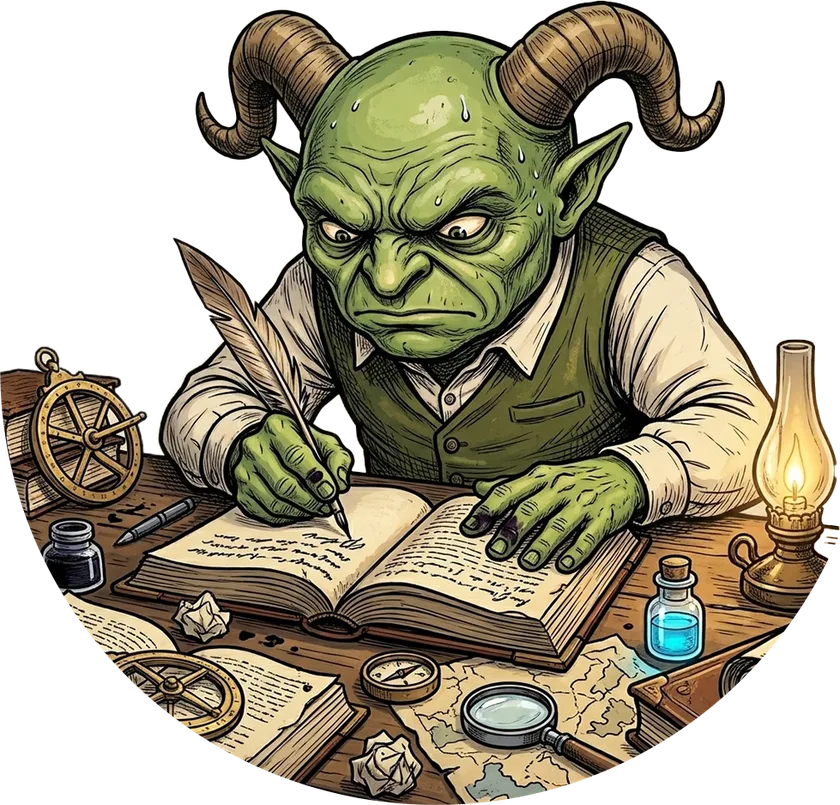
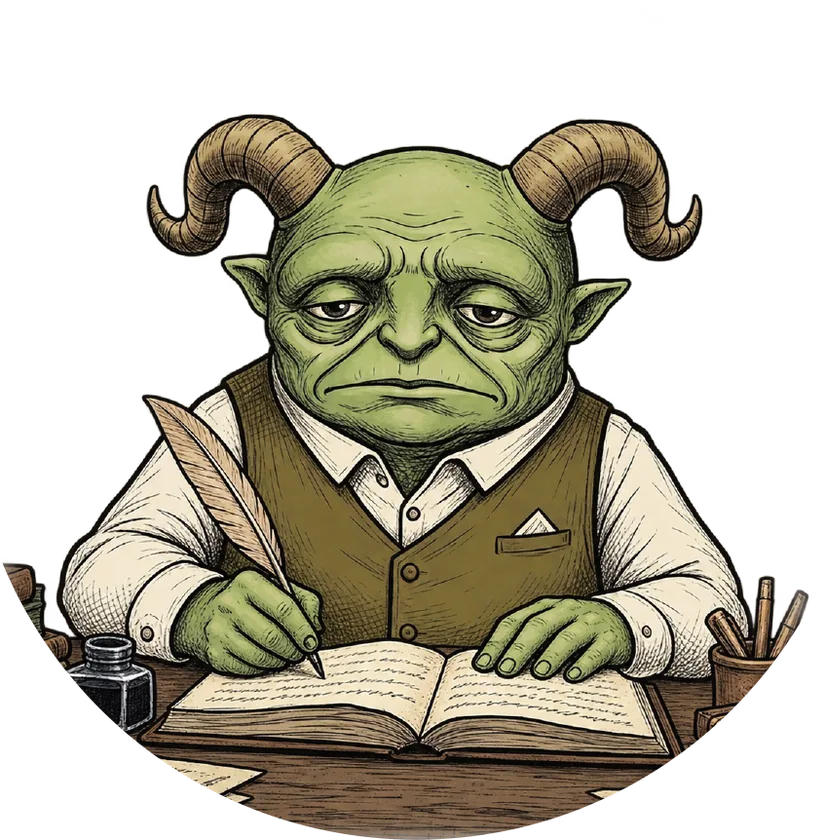
Website #379: the two drawings the card was waiting on
The last commit on this card shipped eight of its ten points and parked two, because
the artwork named in them ("Replace 1.png", "Replace 2.png") was on Trello and not in
the repo. Both files are in now, used exactly as provided.

- D1 Studio / «استودیو دیوان» gets the new drawing. Same subject as the one it replaces,
  drawn frontally and more cleanly: Diwche writing in a ledger with a quill. Its alt text
  is rewritten to match what is actually on the page — the old one described a lamp,
  charts and maps that this drawing does not have.
- "How Diwche thinks" / «نحوه تفکر دیوچه» has its avatar, so the section renders as the
  two-column row it was already laid out for instead of the plain header it fell back to.
  build-art.py's PENDING set is empty again; the mechanism stays for the next drawing
  that is promised before it arrives.

Both new files are circular vignettes, where the other five drawings are free-standing
cut-outs, so these two read as framed medallions beside four unframed figures. That is a
question for the card, not something to decide by quietly re-cutting someone's art, so it
is asked there and the drawings go up as they were handed over.

No changelog entry: this is the marketing site, and changelog.json is the in-app list for
tester accounts of the admin app.

Claude-Session: https://claude.ai/code/session_01Fvd6ttD4nbdzcL2aYys53P

diff --git a/scripts/build-art.py b/scripts/build-art.py
@@ -51,7 +51,8 @@ ART = [
     ),
     (
         "studio-writing",
-        "Diwche hunched over a ledger under a lamp, writing by quill among charts and maps.",
+        "Diwche in shirtsleeves and waistcoat, writing in an open ledger with a quill, "
+        "an inkwell and a pot of pens on the desk beside him.",
     ),
     (
         "replies-mailbox",
@@ -62,10 +63,11 @@ ART = [
         "Diwche in a tinkered-together instrument vest, a colander on his head and dials "
         "on his chest, reading his own numbers.",
     ),
-    # "How Diwche thinks" (#approach). The drawing is "Replace 2.png" on Trello #379 and is
-    # not in the repo yet: save it as art/source/approach-thinking.png, describe it here in
-    # place of the None, and rebuild. Until then it is PENDING and the section has no picture.
-    ("approach-thinking", None),
+    (
+        "approach-thinking",
+        "Diwche resting his head on one hand over a sketch he has struck through in red, "
+        "crumpled drafts and a forgotten mug around him.",
+    ),
 ]
 
 # Drawings that are planned but whose file has not arrived yet.
@@ -74,7 +76,7 @@ ART = [
 # page that wants it renders without it (Home.astro asks the manifest) — never with some other
 # drawing standing in, which on the homepage meant the same figure twice. Once the file
 # exists it builds like any other and this entry stops mattering.
-PENDING = {"approach-thinking"}
+PENDING: set[str] = set()
 
 # The mark. Trimmed to the horns themselves — the source has about a third of its
 # height in empty margin, which would render as a mysteriously small logo.
